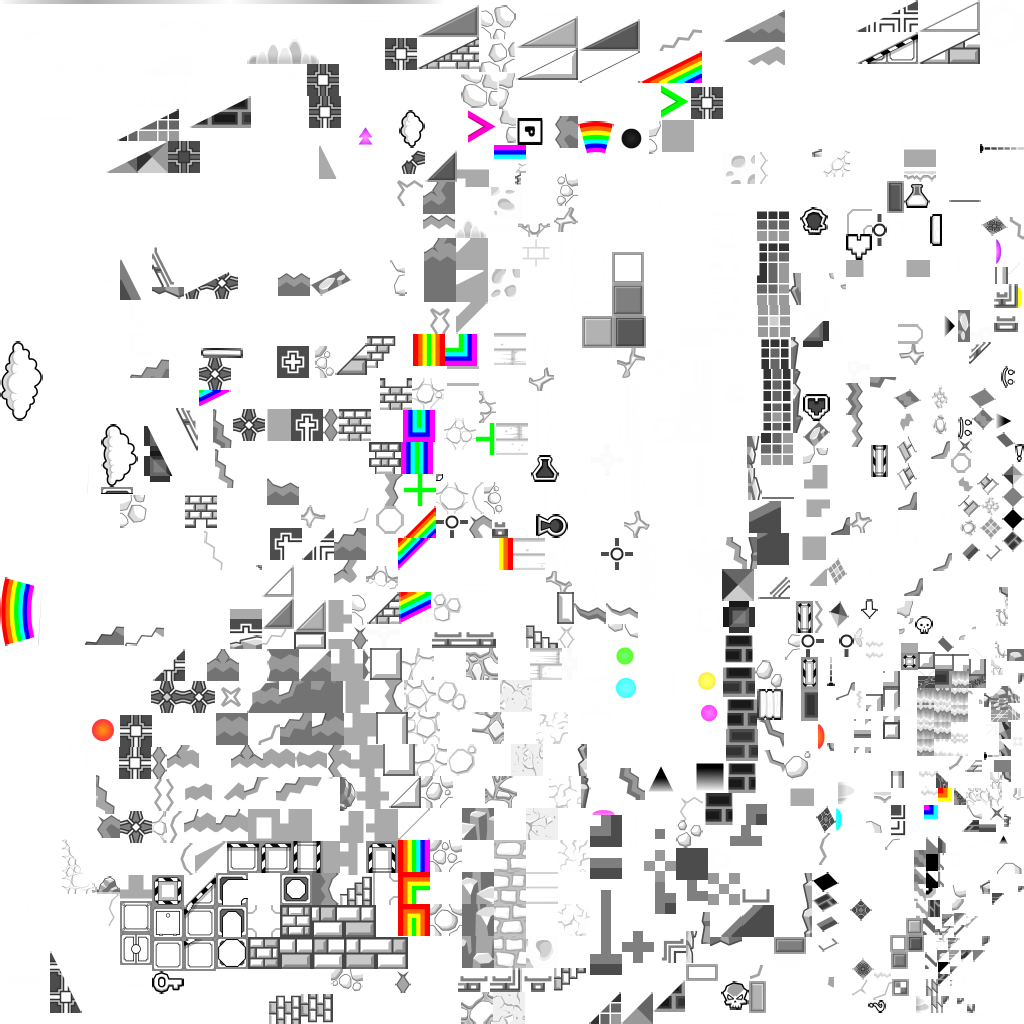
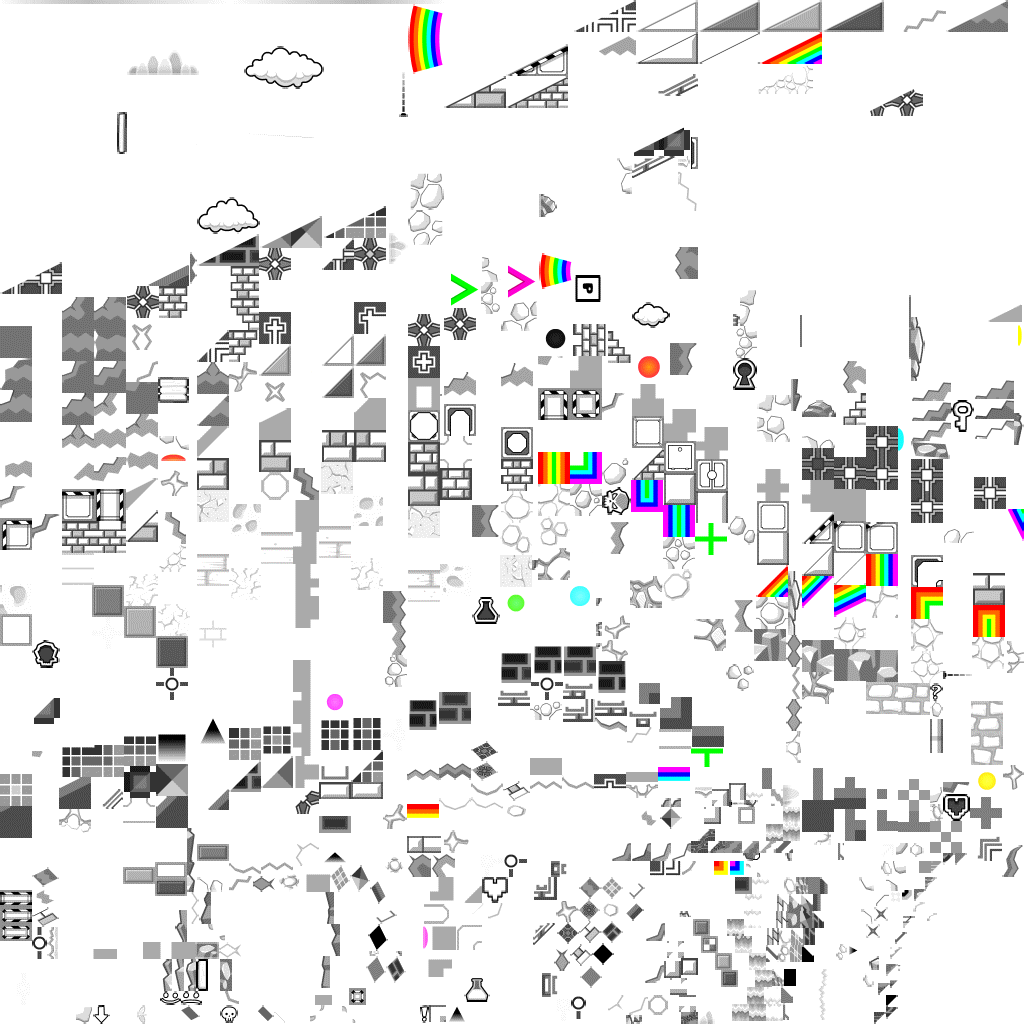
Use 2.11 textures

diff --git a/source/blocks.c b/source/blocks.c
@@ -6,8 +6,8 @@ struct ObjectDefinition objects[] = {
     { // Basic block
         .layers = {
             {
-                .sheet_x = 694,
-                .sheet_y = 761,
+                .sheet_x = 156,
+                .sheet_y = 732,
                 .sheet_w = 32,
                 .sheet_h = 32
             }
